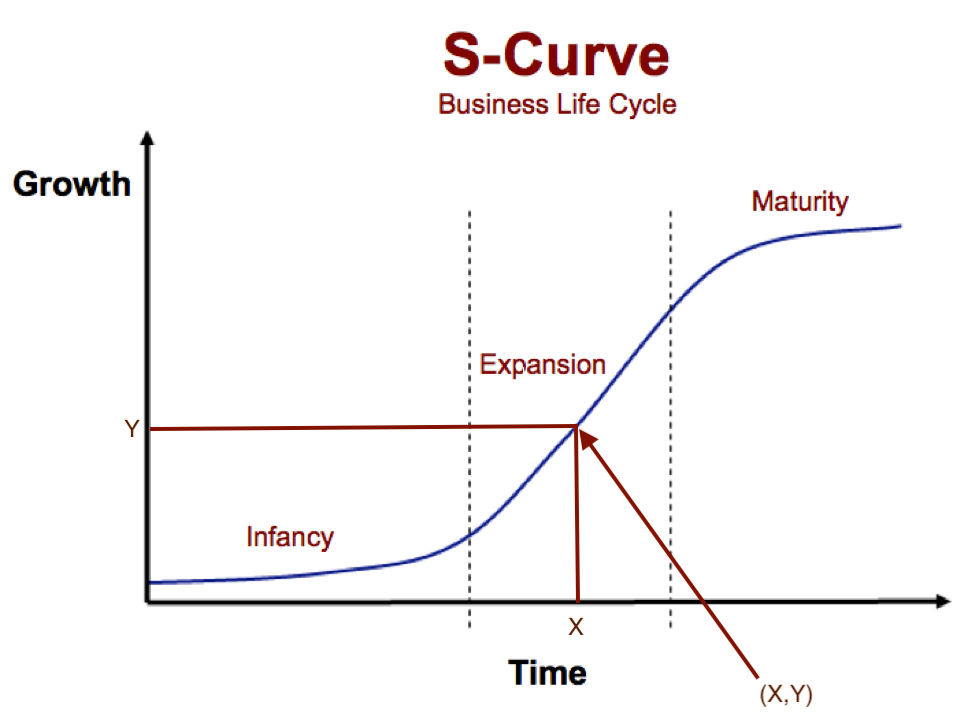
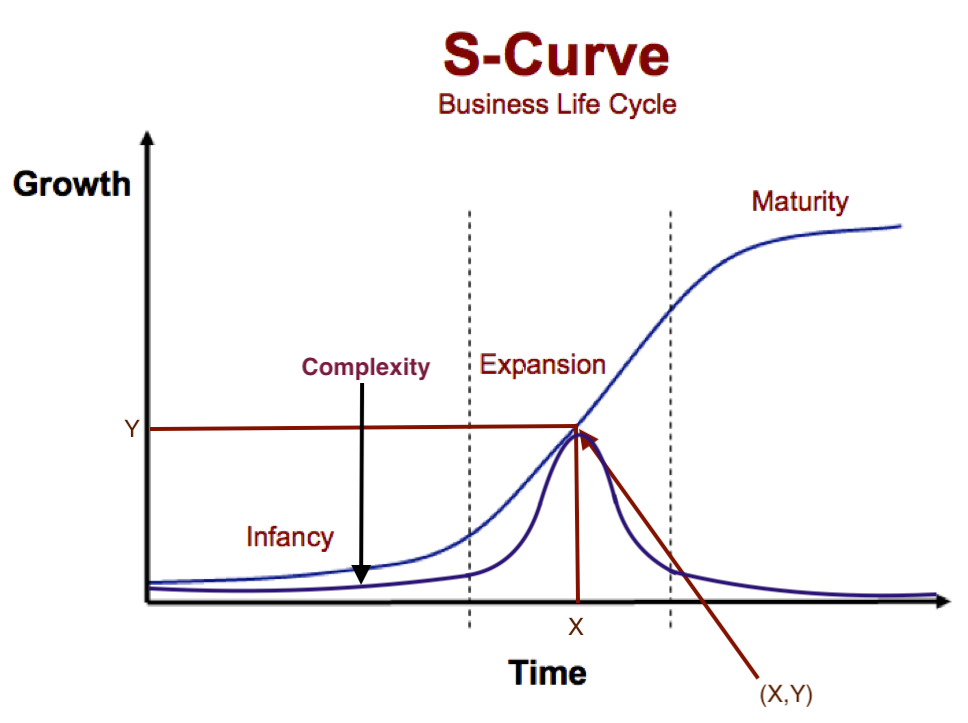
v0.2

diff --git a/content/posts/entropy.md b/content/posts/entropy.md
@@ -19,8 +19,8 @@ The Second Law of Thermodynamics states
 
 > A system's entropy will either increase or remain the same over time, unless outside energy is added
 
-There's something about inevitability that I think is arcane and
-fascinating. Especially when you can see it unfold in front of you - my
+There's something about inevitability that I think is fascinating, especially
+when you can see it unfold in front of you -- my
 favourite visualisation is below (thanks Gemini).
 
 <center><img src =/images/diffusion.png width="550" height="400"/></center>
@@ -39,10 +39,21 @@ entropy follows an S-curve [4], with its three stages likened to those of ink di
 
 This is strikingly similar to the business lifecycle curve above! Indeed, prior
 art agrees that **business and technology lifecycles are overlayed entropy curves**
-[5]. This formulation is especially important in context of my broader argument.
+[5]. 
 
 
-### Interlude: statistical entropy and complexity.
+Entropy in business is largely a representation of diffusion of a
+particular product, driven by the forces of supply and demand. While entropy is
+often likened to "disorder", I like to use "disruption" - permeation of new (ink)
+into old (water). It is neither good nor bad, simply inevitable.
+
+
+## Properties of Entropy
+
+### Statistical Entropy
+
+Since we are talking about software and not atoms, let's turn to information theory to
+understand the information contained in software programs.
 
 In information theory, Shannon's entropy is, for a random
 variable  \\( X \\) distributed according to \\( p: (x \in \mathcal{X})
@@ -61,21 +72,29 @@ more entropy than one with 4 sides.
   Gaussians and exponentials are maximum entropy distributions (under
   certain statistical conditions [3]). Both exhibit fat tail properties empirically.
   
-Theodore Modis presents an excellent information-theoretic analysis of the relation between complexity
-and entropy. In fact, he predicted a 20-year complexity trend in 2002 [5] and followed up
-in 2022 with a conclusion validating his claim [4] (*a Lindy trend* [10]).
+### Complexity
 
-His observation?
+Complexity is entropy's first cousin. Formally we'll use
+Kolmogorov complexity:
+
+> \\(K(o)\\) for an object \\(o\\) is the length of the shortest program that produces the
+> object as output. 
+
+In other words, it measures how "compressible" something is. 
+
+Now - how does entropy relate to complexity? Modis posits the following relation [4][15]:
+  
 
 > Complexity is the time derivative of entropy. Given that entropy is an
-> S-curve, complexity is normal.
+> S-curve, complexity is normally distributed.
 >
-> Complexity increases until a peak and decreases after.
+> With time, complexity increases until a peak and decreases after.
 
-Scott Aaronson quantifies this idea with a lucid example around cream dissolving
-into coffee [6]. He likens complexity to the "interestingness" of a system, formally represented by
-Kolmogorov complexity, and empirically calculated by `gzip` compression of a state
-snapshot image (where state is an X-ray image of the coffee-cup). 
+To see this: let's consider Scott Aaronson's lucid example around cream dissolving
+into coffee [6].
+
+His research empirically calculated a complexity score using the `gzip` compression
+file size of pictures of cream melting in the coffee.
 
 <center><img src =/images/coffee_complexity.png width="413" height="300"/></center>
 
@@ -102,7 +121,7 @@ Why?
 - Software is still custom-made / productised. SaaS "exploded" but hasn't permeated all
   industries. Digital modernisation efforts continue to be in higher
   demand than available supply, indicating superlinear business growth or relative
-  convexity.
+  convexity -- *close to the central inflection point*.
 
 - Software complexity is close to peaking. This one is bolstered by the
   cloud driving successful commoditisation of infrastructure. We now have
@@ -116,21 +135,21 @@ Why?
 
 # Tech Debt as Complexity
 
+Technological modernisation is bottlenecked by iteration speed to a desired solution -- and
+tech debt is the maintenance and complexity related resistance to change.
+
 The simplest description of tech debt that I've been able to come up with has
-two major manifestations.
+two major forms.
 
 ### Complexity via obscurity
 
-Poorly designed software abstractions (obscurity) generates more complexity - "garbage in, garbage
+Poorly designed software abstractions (obscurity) generate more complexity - "garbage in, garbage
 out".
 
-Technological modernisation is about iteration speed to a desired solution - and
-debt is precisely the maintenance-related roadblocks in the way of doing so /
-resistance to change.
 
 The core issue with "obscure" abstractions is that they are uncompressed representations of state. That is, they encode more than they should.
 Their interfaces are inherently complex, where they should instead be
-simple and hide deep complexity [6] (example - [11])
+simple and hide deep complexity [6] [11].
 
 This results in programs that can have far more states than they should
 (Property 1). Changing them means dealing with far more of these state transitions than you should!
@@ -161,11 +180,14 @@ global economy. We've all seen them play out.
 <center><img src =/images/complexity_entropy.png width="550" height="400"/></center>
 
 Since complexity is a differential snapshot of entropy in time, cumulative tech debt
-is precisely the integral over all the complexity built up in software today.
-
+is precisely the integral over all the complexity built up in software over history.
 
 Further, given we are at the peak of complexity, we are at the peak of tech
-debt. **It will inevitably go down**.
+debt's growth. **It will inevitably slow down**.
+
+Intuitiviely, in the business “experimental -> custom -> product -> commodity” lifecycle,
+software is at the custom/product intersection. In order to get from product to
+commodity, it needs to be simpler and cheaper.
 
 Economically, McKinsey estimates that tech debt accounts for 40% of IT balance
 sheets and up to 50% of developer time [13]. It shows up as a vicious cycle that
@@ -185,7 +207,43 @@ higher:
 A lot of words to say: there's a whole lot left to do here.
 
 
-# Bonus: The Solution
+# Footnotes and References
+
+[1] https://x.com/elonmusk/status/1090689205586472960
+
+[2] https://en.wikipedia.org/wiki/Entropy_as_an_arrow_of_time
+
+[3] https://pillowlab.princeton.edu/teaching/statneuro2018/slides/notes08_infotheory.pdf
+
+[4] https://arxiv.org/abs/2410.10844
+
+[5] http://www.growth-dynamics.com/articles/Forecasting_Complexity.pdf
+
+[6] https://arxiv.org/abs/1405.6903
+
+[7] https://books.google.com/books/about/A_Philosophy_of_Software_Design.html?id=hkfEzgEACAAJ&source=kp_book_description
+
+
+[8] https://www.it-cisq.org/wp-content/uploads/sites/6/2022/11/CPSQ-Report-Nov-22-2.pdf
+
+[9] https://www.sonatype.com/blog/the-scale-of-open-source-growth-challenges-and-key-insights
+
+[10] https://en.wikipedia.org/wiki/Lindy_effect
+
+[11] https://en.wikipedia.org/wiki/Everything_is_a_file
+
+[12] https://arxiv.org/abs/2309.10668
+
+[13] https://www.mckinsey.com/capabilities/mckinsey-digital/our-insights/breaking-technical-debts-vicious-cycle-to-modernize-your-business
+
+[14] https://en.wikipedia.org/wiki/Black_swan_theory
+
+[15] Theodore Modis presents an excellent information-theoretic analysis of the relation between complexity
+and entropy: his claim held true over a 20 year prediction (2002-2022) [4] (*a Lindy trend* [10]).
+
+
+# Appendix: Three Hard Problems
+
 
 I've spent a lot of words talking about a problem and tying it to other
 problems. What does taming complexity look like? How do we roll the ball down
@@ -233,37 +291,9 @@ driven feedback. i.e unit test cases encapsulating abstractions "solve" this wel
 I won't elaborate too much on "solutions" since I have various
 hypotheses-in-testing that need iteration (as opposed to more ideation).
 
-Reach out to me if these ideas sound interesting to you, and let's iterate together!
+If you made it this far, clearly some of this was interesting to you. Let's chat! [Email](mailto:rohangupta883@gmail.com) [X](https://x.com/rohangupta_)
 
 
-# Footnotes and references
 
 
-[1] https://x.com/elonmusk/status/1090689205586472960
 
-[2] https://en.wikipedia.org/wiki/Entropy_as_an_arrow_of_time
-
-[3] https://pillowlab.princeton.edu/teaching/statneuro2018/slides/notes08_infotheory.pdf
-
-[4] https://arxiv.org/abs/2410.10844
-
-[5] http://www.growth-dynamics.com/articles/Forecasting_Complexity.pdf
-
-[6] https://arxiv.org/abs/1405.6903
-
-[7] https://books.google.com/books/about/A_Philosophy_of_Software_Design.html?id=hkfEzgEACAAJ&source=kp_book_description
-
-
-[8] https://www.it-cisq.org/wp-content/uploads/sites/6/2022/11/CPSQ-Report-Nov-22-2.pdf
-
-[9] https://www.sonatype.com/blog/the-scale-of-open-source-growth-challenges-and-key-insights
-
-[10] https://en.wikipedia.org/wiki/Lindy_effect
-
-[11] https://en.wikipedia.org/wiki/Everything_is_a_file
-
-[12] https://arxiv.org/abs/2309.10668
-
-[13] https://www.mckinsey.com/capabilities/mckinsey-digital/our-insights/breaking-technical-debts-vicious-cycle-to-modernize-your-business
-
-[14] https://en.wikipedia.org/wiki/Black_swan_theory
